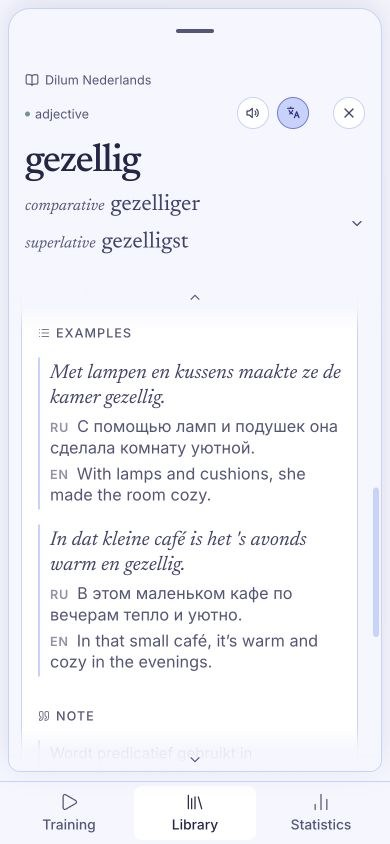
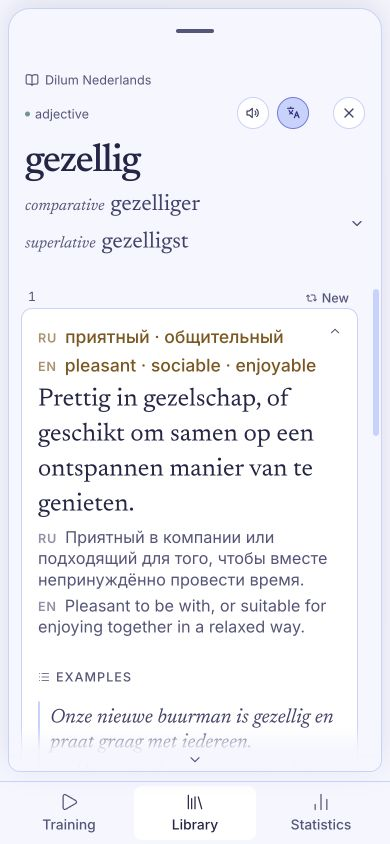
Show complete mobile screens and device views

diff --git a/src/styles/2000nl.css b/src/styles/2000nl.css
@@ -326,3 +326,8 @@
  .nl-card-shot { width:31%; right:0; bottom:24px }
  .nl-device-note { padding:45px 0 }
 }
+
+.nl-device-pair { display:grid; grid-template-columns:minmax(0,1fr) minmax(0,30%); align-items:center; gap:20px; margin-top:36px }
+.nl-device-pair figure { margin:0; border:1px solid var(--line); border-radius:10px; overflow:hidden; box-shadow:0 12px 35px #29203716 }
+.nl-device-pair img { display:block; width:100%; height:auto }
+@media(max-width:600px) { .nl-device-pair { gap:10px; grid-template-columns:minmax(0,1fr) minmax(0,33%) } }

diff --git a/docs/work/product-locales.md b/docs/work/product-locales.md
@@ -30,3 +30,7 @@ Checkpoint 2026-11-16: user corrected screenshot source: 3100 was old #69 and it
 Resume 2026-11-16: user requests restore desktop/mobile overlapping showcase, dedicated mobile collection/sharing and bilingual translation examples, and browser/device/theme benefit. Existing PR14 branch and scope reused; application current production UI read-only for screenshots. Additional translation language set to English temporarily and restored Off; theme restored System. No collections or progress changed. Screenshot copy excludes user learning counts.
 
 Checkpoint: restored current desktop dictionary with mobile builder overlay, added separate mobile collections/share and Russian/English translation examples, and device/theme copy in all ten locales. Captures use actual app screens; no account progress is shown. Verified desktop/mobile composition and light/dark switching; production and preview build/content checks, translation checks and tests pass. Changes remain in draft PR14; no deployment.
+
+Resume 2026-11-16: user requests uncropped mobile Session Builder on both placements, translated headword/meaning highlighted in two languages, and desktop plus mobile screenshots in the device section. Existing branch and claim reused; current production UI used for captures; additional translation language and theme restored after capture. Full builder screenshot includes anonymous aggregate counts from the signed-in session as visible UI; no names or identifiers.
+
+Checkpoint: full mobile builder captures replace cropped fragments; bilingual capture shows highlighted headword translations and definition in both languages; device section now pairs desktop and mobile. Verified layout in preview, production/preview builds, content checks and translation tests. Theme and secondary language settings restored. Draft PR14 only; no publication.
